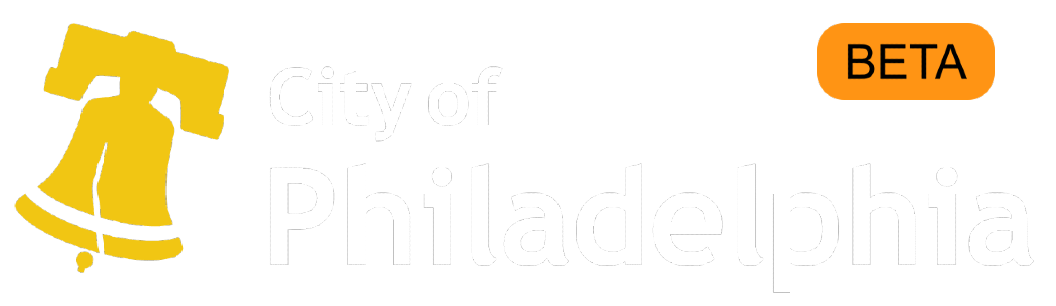
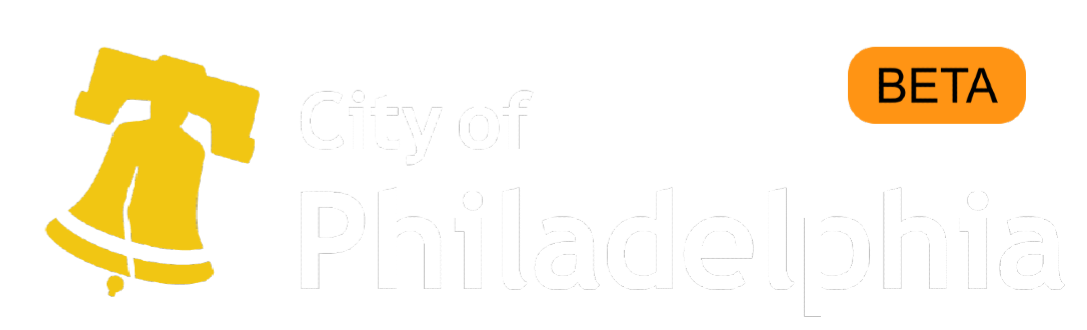
more changes for vue3

diff --git a/src/main.js b/src/main.js
@@ -47,7 +47,7 @@ const customComps = markRaw({
 import i18n from './i18n/i18n';
 console.log('main.js i18n:', i18n);
 
-import { format, parseISO, parse } from 'date-fns';
+// import { format, parseISO, parse } from 'date-fns';
 
 import logoSrc from './assets/city-of-phila-beta.png';
 
@@ -58,7 +58,7 @@ let $config = {
     type: 'ost',
     logoSrc: logoSrc,
     logoLink: 'none',
-    // logoWidth: 50,
+    logoWidth: 200,
     logoAlt: 'City of Philadelphia',
   },
   gtag: {
@@ -597,19 +597,17 @@ let $config = {
   alerts: {
     modal: {
       enabled: true,
-      header: 'Disclaimer',
+      title: 'Disclaimer',
       body: '<p>The Out-of-School programs (“OST Program(s)”) are not operated, endorsed, or \
         controlled by the City of Philadelphia (“City”). The City is providing this list of \
         programs for your convenience only. If you use any program links, you will leave \
         the City’s website and be directed to a website for that particular OST Program.</p>\
-<br>\
         <p>The City provides no warranties, promises, and/or representations of any kind, \
         expressed or implied, as to the nature, standard, or accuracy provided by these OST \
         Programs, nor to the suitability or otherwise information to your particular \
         circumstances. The City does not endorse, approve, or control the information contained \
         in the program websites. The information is provided only on an “as is” and “with all \
         faults” basis.</p>\
-<br>\
         <p>By clicking on any external links, you acknowledge that in no event shall the \
         City be liable to you or to any other person or entity for any direct, indirect, \
         special, incidental, or consequential or other damage, cost, or expense arising out \

diff --git a/src/components/customGreeting.vue b/src/components/customGreeting.vue
@@ -173,7 +173,7 @@ const allTwitter = computed(() => {
   </div>
 </template>
 
-<style lang="scss" scoped>
+<style scoped>
 
 .main-greeting {
   padding: 1rem;
